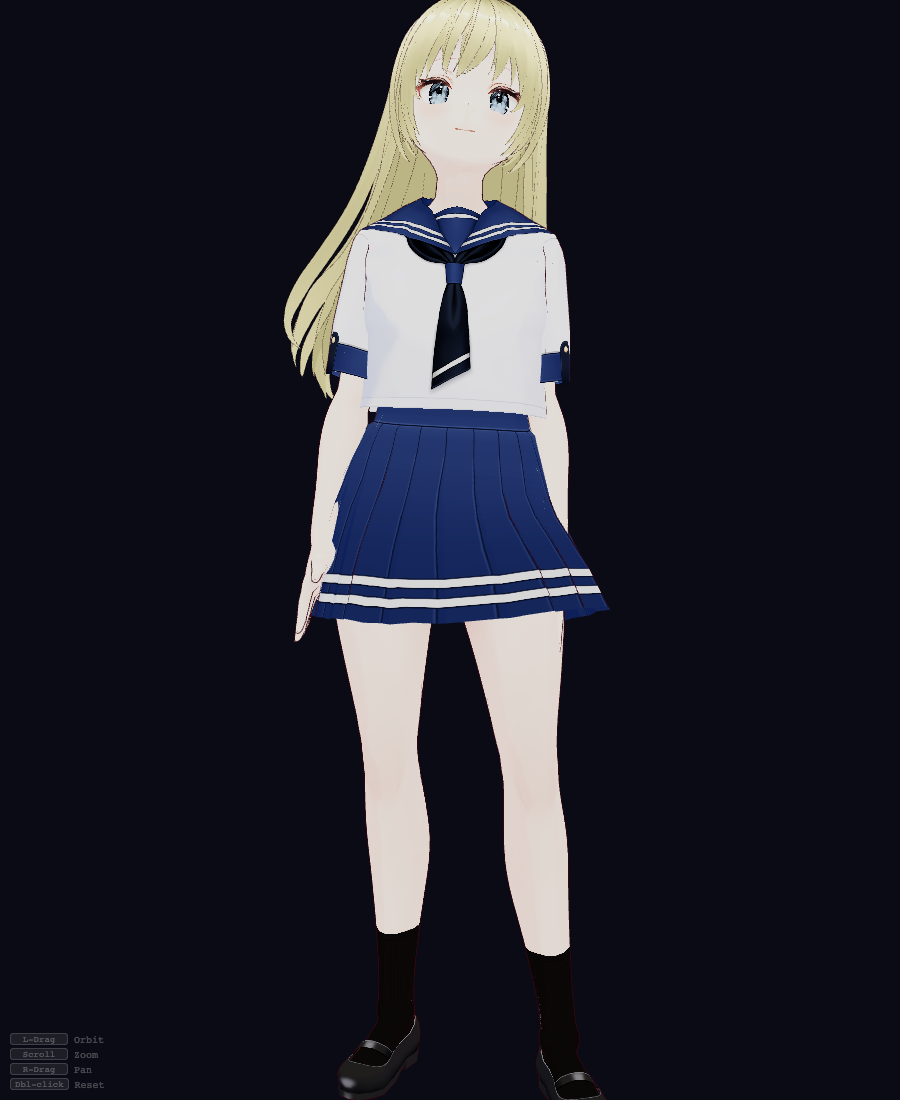
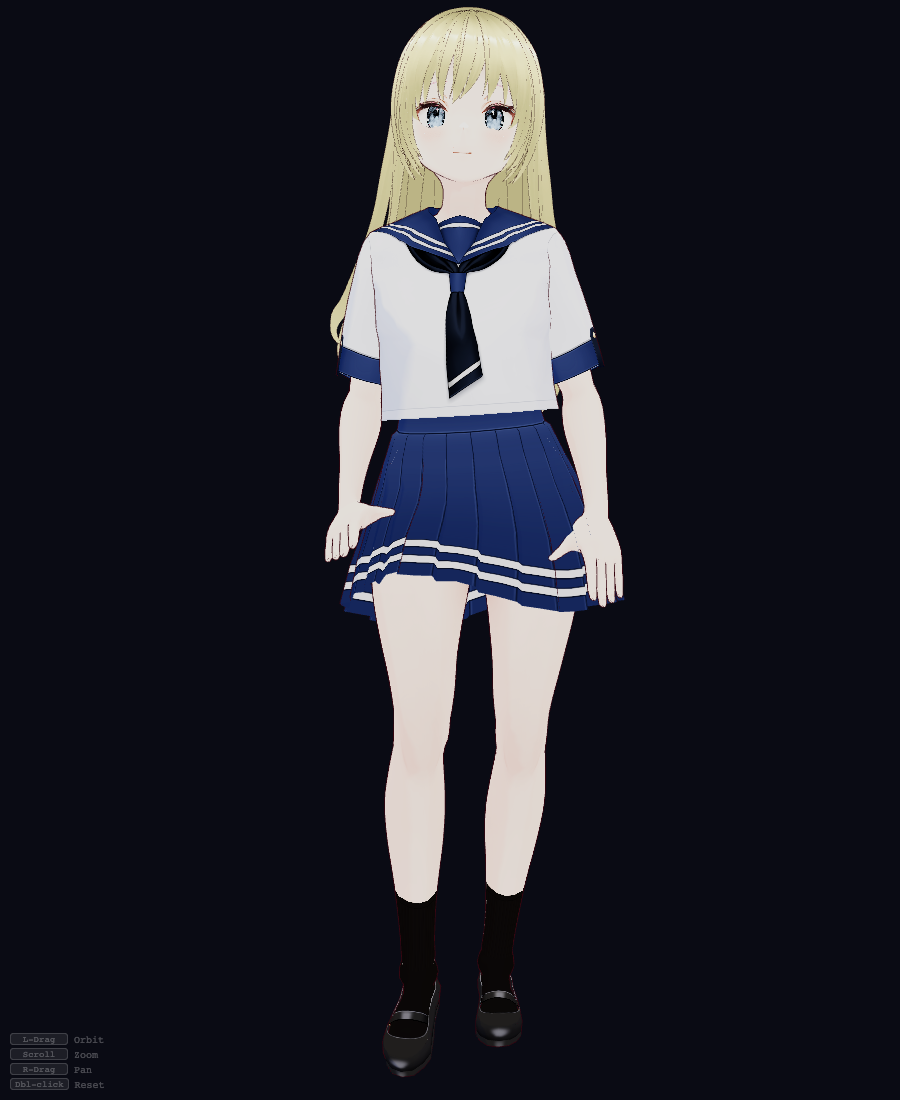
fix(viewer): loadClip selects embedded clip by name + exposes all clips
loadClip always stored animations[0] under the requested name, so asking a
multi-clip GLB (Xbot: agree/idle/walk/run/...) for 'walk' actually loaded
'agree' (a near-still gesture) — which is why the first render looked static.

Now picks the embedded clip whose original name matches the request
(separator-/case-insensitive), falls back to animations[0], and stores the
remaining clips under their own sanitized names so one load exposes all of them
(load Xbot once, play 'run'/'walk'/'idle').

Verified with the real walk clip: 4/4 distinct frames (genuinely cycling),
mid-stride pose, grounded + undistorted. Evidence: walk-frame-*.png.

diff --git a/frontends/shared/viewer/viewer.html b/frontends/shared/viewer/viewer.html
@@ -3071,19 +3071,30 @@
                             this.stripSpringBoneTracks(anim);
                         }
 
-                        // Store all clips; the first one gets the requested name
-                        const primary = animations[0];
+                        // Pick the clip whose ORIGINAL name matches the requested name
+                        // (case-/separator-insensitive), so loading a multi-clip GLB like
+                        // Xbot.glb (agree/idle/walk/run/...) with name "walk" stores the walk
+                        // clip — not animations[0]. Falls back to the first clip when nothing
+                        // matches (single-clip files, or a custom name).
+                        const normName = (s) => String(s || '').replace(/[^a-z0-9]/gi, '').toLowerCase();
+                        const wanted = normName(name);
+                        const matchIdx = animations.findIndex((a) => normName(a.name) === wanted);
+                        const primaryIdx = matchIdx >= 0 ? matchIdx : 0;
+
+                        const primary = animations[primaryIdx];
                         primary.name = name;
                         // Tag clips with metadata for idle clip cycling filter
                         if (tags) primary.userData.tags = tags;
                         if (mood)  primary.userData.mood  = mood;
                         this.clipLibrary[name] = primary;
 
-                        // Store extras with indexed names (wave_1, wave_2, etc.)
-                        for (let i = 1; i < animations.length; i++) {
-                            const extraName = `${name}_${i}`;
+                        // Store the remaining clips under their own (sanitized) original names
+                        // so a multi-clip GLB exposes all of them (e.g. load once, play "run").
+                        for (let i = 0; i < animations.length; i++) {
+                            if (i === primaryIdx) continue;
+                            const extraName = normName(animations[i].name) || `${name}_${i}`;
                             animations[i].name = extraName;
-                            this.clipLibrary[extraName] = animations[i];
+                            if (!(extraName in this.clipLibrary)) this.clipLibrary[extraName] = animations[i];
                         }
 
                         console.log(`[ClipLayer] Loaded "${name}" (${primary.duration.toFixed(1)}s, ${primary.tracks.length} tracks)`);
